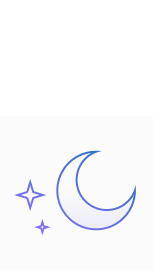
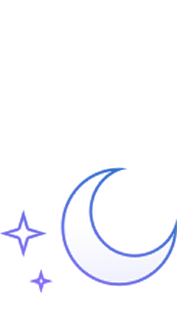
fix(onboarding): Minor asset tweaks

Changed region(s): [[0.3399, 0.5037, 1.0, 0.9185], [0.0, 0.6519, 0.3137, 0.8], [0.1569, 0.8, 0.3399, 0.9185]]

diff --git a/internal_packages/onboarding/lib/page-tutorial.jsx b/internal_packages/onboarding/lib/page-tutorial.jsx
@@ -7,7 +7,7 @@ const Steps = [
     id: 'people',
     title: 'Compose with context',
     image: 'feature-people@2x.png',
-    description: "N1 shows you everything about your contacts right inside your inbox. See LinkedIn profiles, Twitter bios, and more.",
+    description: "N1 shows you everything about your contacts right inside your inbox. See LinkedIn profiles, Twitter bios, message history, and more.",
     x: 96.6,
     y: 1.3,
     xDot: 93.5,
@@ -16,9 +16,9 @@ const Steps = [
   {
     seen: false,
     id: 'activity',
-    title: 'Track activity',
+    title: 'Track opens and clicks',
     image: 'feature-activity@2x.png',
-    description: "With activity tracking, you'll know as soon as someone reads your message. Sending to a group? We'll show which recipients opened your email, so you can follow up with precision.",
+    description: "With activity tracking, you’ll know as soon as someone reads your message. Sending to a group? N1 shows you which recipients opened your email so you can follow up with precision.",
     x: 12.8,
     y: 1,
     xDot: 15,
@@ -27,23 +27,23 @@ const Steps = [
   {
     seen: false,
     id: 'snooze',
-    title: 'Time is everything',
+    title: 'Send on your own schedule',
     image: 'feature-snooze@2x.png',
-    description: "Snooze emails to any time that suits you. Schedule emails to be sent at the ideal time. N1 makes it easy to control the fabric of spacetime.",
+    description: "Snooze emails to any time that suits you. Schedule messages to send at the ideal time. N1 makes it easy to control the fabric of spacetime!",
     x: 5.5,
     y: 23.3,
-    xDot: 8,
+    xDot: 10,
     yDot: 25.9,
   },
   {
     seen: false,
     id: 'composer',
-    title: 'Composer Power',
+    title: 'Eliminate hacky extensions',
     image: 'feature-composer@2x.png',
-    description: "Use N1's powerful composer to embed calendar invitations, propose times to meet with recipients, insert templates, and more.",
-    x: 76.6,
+    description: "Embed calendar invitations, propose meeting times, use quick reply templates, send mass emails with mail merge, and more—all directly from N1’s powerful composer.",
+    x: 60.95,
     y: 66,
-    xDot: 74.9,
+    xDot: 60.3,
     yDot: 65.0,
   },
 ];
@@ -126,7 +126,7 @@ export default class TutorialPage extends React.Component {
             </div>
           </div>
           <div className="right">
-            <img src={`nylas://onboarding/assets/${current.image}`} style={{zoom: 0.6, margin: 'auto'}} role="presentation" />
+            <img src={`nylas://onboarding/assets/${current.image}`} style={{zoom: 0.5, margin: 'auto'}} role="presentation" />
             <h2>{current.title}</h2>
             <p>{current.description}</p>
           </div>

diff --git a/internal_packages/onboarding/stylesheets/onboarding.less b/internal_packages/onboarding/stylesheets/onboarding.less
@@ -433,7 +433,7 @@
       transition: all ease-in-out 400ms;
 
       h2 {
-        font-size: 31px;
+        font-size: 28px;
         font-weight: 300;
         text-align: center;
       }
